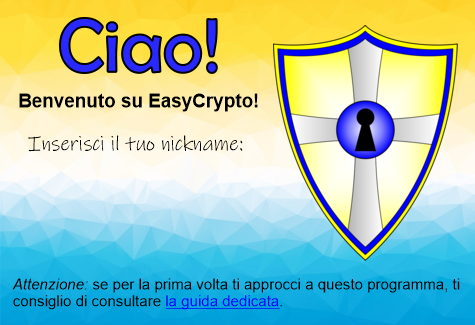
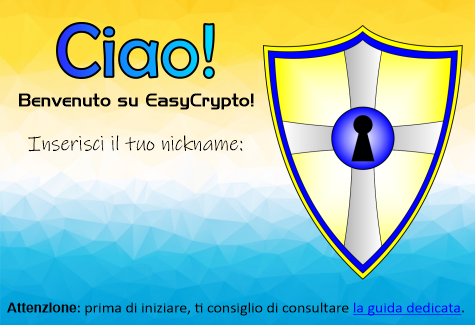
SetUsernameGui improvements
- GUI embedded into a class to enhance OOP.
- Better background, better widgets
- Connection error management
- Bug fixes

Changed region(s): [[0.0, 0.0615, 0.9726, 0.9846], [0.1179, 0.0308, 0.4716, 0.2462]]

diff --git a/src/setusernamegui.py b/src/setusernamegui.py
@@ -9,75 +9,95 @@ CRYPT_PATH = os.path.join(PATH, 'crypt')
 USERS_LIST = os.path.join(PATH, 'users_list.txt')
 
 
-def set_username():
-    log = Logger(__name__).default()
+class SetUsernameGui(tk.Tk):
 
-    win = tk.Tk()
-    WIDTH = 475
-    HEIGHT = 325
+    def __init__(self):
+        super().__init__()
+        self.username = None
+        self.username_obj = Username(self)
 
-    WINDOW_ICON = tk.PhotoImage(file='res/logo.png', master=win)
-    BACKGROUND_IMAGE = tk.PhotoImage(file='res/set_username_background.png', master=win)
-    GO_IMAGE = tk.PhotoImage(file='res/set_username_but.png', master=win)
-    GO_IMAGE_HOVERED = tk.PhotoImage(file='res/set_username_but_hovered.png', master=win)
+        # settings
 
-    x = int(win.winfo_screenwidth() / 2 - (WIDTH / 2))
-    y = int(win.winfo_screenheight() / 2 - (HEIGHT / 2))
+        self.WIDTH = 475
+        self.HEIGHT = 325
+        self.x = int(self.winfo_screenwidth() / 2 - (self.WIDTH / 2))
+        self.y = int(self.winfo_screenheight() / 2 - (self.HEIGHT / 2))
 
-    win.title('EasyCrypto')
-    win.geometry(str(WIDTH) + 'x' + str(HEIGHT) + '+' + str(x) + '+' + str(y))
-    win.resizable(False, False)
-    win.iconphoto(True, WINDOW_ICON)
+        self.title('EasyCrypto')
+        self.geometry('{}x{}+{}+{}'.format(self.WIDTH, self.HEIGHT, self.x, self.y))
+        self.resizable(False, False)
+        self.icon = tk.PhotoImage(file='res/logo.png', master=self)
+        self.iconphoto(True, self.icon)
+        self.log = Logger(__name__).default()
 
-    def_font = ('Arial Baltic', 14)
-    content = tk.StringVar()
+        # images
 
-    # functions
+        self.BACKGROUND_IMAGE = tk.PhotoImage(file='res/set_username_background.png', master=self)
+        self.GO_IMAGE = tk.PhotoImage(file='res/set_username_but.png', master=self)
+        self.GO_IMAGE_HOVERED = tk.PhotoImage(file='res/set_username_but_hovered.png', master=self)
 
-    storage = Username(win).get_users_list()
+        # fonts
 
-    if storage is None:
-        return None
+        self.def_font = ('Arial Baltic', 14)
 
-    def readme_redirect():
-        x_coord = win.winfo_pointerx() - win.winfo_rootx()
-        y_coord = win.winfo_pointery() - win.winfo_rooty()
+        # check connection
 
-        if 164 < x_coord < 282 and 301 < y_coord < 318:
+        self.storage = self.username_obj.get_users_list()
+
+        if self.storage is None:
+            self.username = None
+            return
+
+        # widgets
+
+        self.bg = tk.Canvas(self, width=475, height=325)
+        self.bg.create_image(239, 164, image=self.BACKGROUND_IMAGE)
+        self.canva_id = self.bg.create_text(30, 202, text='Nickname troppo corto!', fill='red', anchor='w')
+        self.content = tk.StringVar()
+        self.user_entry = tk.Entry(self, width=19, font=self.def_font, relief='groove', textvariable=self.content)
+        self.go_but = tk.Button(self, image=self.GO_IMAGE, borderwidth=0, bg='#160ca3',
+                                command=lambda: self.username_obj.execute(self, self.content, True, self.bg,
+                                                                          self.canva_id))
+        # configuration and bindings
+
+        self.bg.bind('<Button-1>', lambda _: self.__readme_redirect())
+        self.go_but.bind("<Enter>", lambda _: self.go_but.config(image=self.GO_IMAGE_HOVERED))
+        self.go_but.bind("<Leave>", lambda _: self.go_but.config(image=self.GO_IMAGE))
+
+        self.content.trace_add('write', lambda _, __, ___: Username.check_username(self.content.get(), True, self.bg,
+                                                                                   self.canva_id))
+        self.user_entry.focus()
+
+        # placing
+
+        self.bg.place(x=-2, y=-2)
+        self.user_entry.place(x=29, y=163)
+        self.go_but.place(x=67, y=228)
+
+        # button event
+
+        self.go_but.wait_window(self)
+
+        try:
+            if os.path.exists(USERS_LIST):
+                os.remove(USERS_LIST)
+        except PermissionError:
+            self.log.warning("PermissionError", exc_info=True)
+
+        try:
+            self.username = self, self.username_obj.username
+        except AttributeError:
+            self.log.warning("AttributeError", exc_info=True)
+            self.username = None
+
+    def __readme_redirect(self) -> None:
+        """Redirects the user to the EasyCrypto GitHub readme"""
+        x_coord = self.winfo_pointerx() - self.winfo_rootx()
+        y_coord = self.winfo_pointery() - self.winfo_rooty()
+
+        if 352 < x_coord < 465 and 301 < y_coord < 318:
             web.Browser('https://github.com/RichardBoy05/EasyCrypto/blob/main/README.md').search()
 
-    # widgets
-
-    background_canv = tk.Canvas(win, width=475, height=325)
-    background_canv.create_image(239, 164, image=BACKGROUND_IMAGE)
-    canva_id = background_canv.create_text(30, 202, text='Nickname troppo corto!', fill='red', anchor='w')
-    user_entry = tk.Entry(win, width=19, font=def_font, relief='groove', textvariable=content)
-    go_but = tk.Button(win, image=GO_IMAGE, borderwidth=0, bg='#160ca3',
-                       command=lambda: Username(win).execute(win, content, True, background_canv, canva_id))
-    # configuration and bindings
-
-    background_canv.bind('<Button-1>', lambda _: readme_redirect())
-    go_but.bind("<Enter>", lambda _: go_but.config(image=GO_IMAGE_HOVERED))
-    go_but.bind("<Leave>", lambda _: go_but.config(image=GO_IMAGE))
-    content.trace_add('write', lambda _, __, ___: Username.check_username(content.get(), True, background_canv, canva_id))
-    user_entry.focus()
-
-    # placing
-
-    background_canv.place(x=-2, y=-2)
-    user_entry.place(x=29, y=163)
-    go_but.place(x=84, y=220)
-
-    go_but.wait_window(win)
-
-    try:
-        if os.path.exists(USERS_LIST):
-            os.remove(USERS_LIST)
-    except PermissionError:
-        log.warning("PermissionError", exc_info=True)
-
-    try:
-        return win, Username(win).username
-    except AttributeError:
-        log.warning("AttributeError", exc_info=True)
-        return None
+    def get(self) -> tuple[tk.Tk, str | None] | None:
+        """Returns the username value"""
+        return self.username

diff --git a/src/Setup.py b/src/Setup.py
@@ -6,7 +6,7 @@ from storing import File
 from logger import Logger
 from config import Config
 from firebase import Firebase as Fb
-from setusernamegui import set_username
+from setusernamegui import SetUsernameGui
 from cryptography.hazmat.primitives import serialization
 from cryptography.hazmat.backends import default_backend
 from cryptography.hazmat.primitives.asymmetric import rsa
@@ -19,18 +19,23 @@ LOGS_PATH = os.path.join(PATH, 'logs')
 
 
 def setup():
-
     if os.path.exists(CONFIG_FILE):
         return False
 
     log = local_setup()
 
     log.info('Asking username...')
-    win, username = set_username()
-    log.info(f'Username successfully set: {username}')
+    res = SetUsernameGui().get()
+
+    if res is None:
+        shutdown(log)
+
+    win, username = res
 
     if username is None:
         shutdown(log)
+
+    log.info(f'Username successfully set: {username}')
 
     configuration(username, log)
     generate_keys(log)
